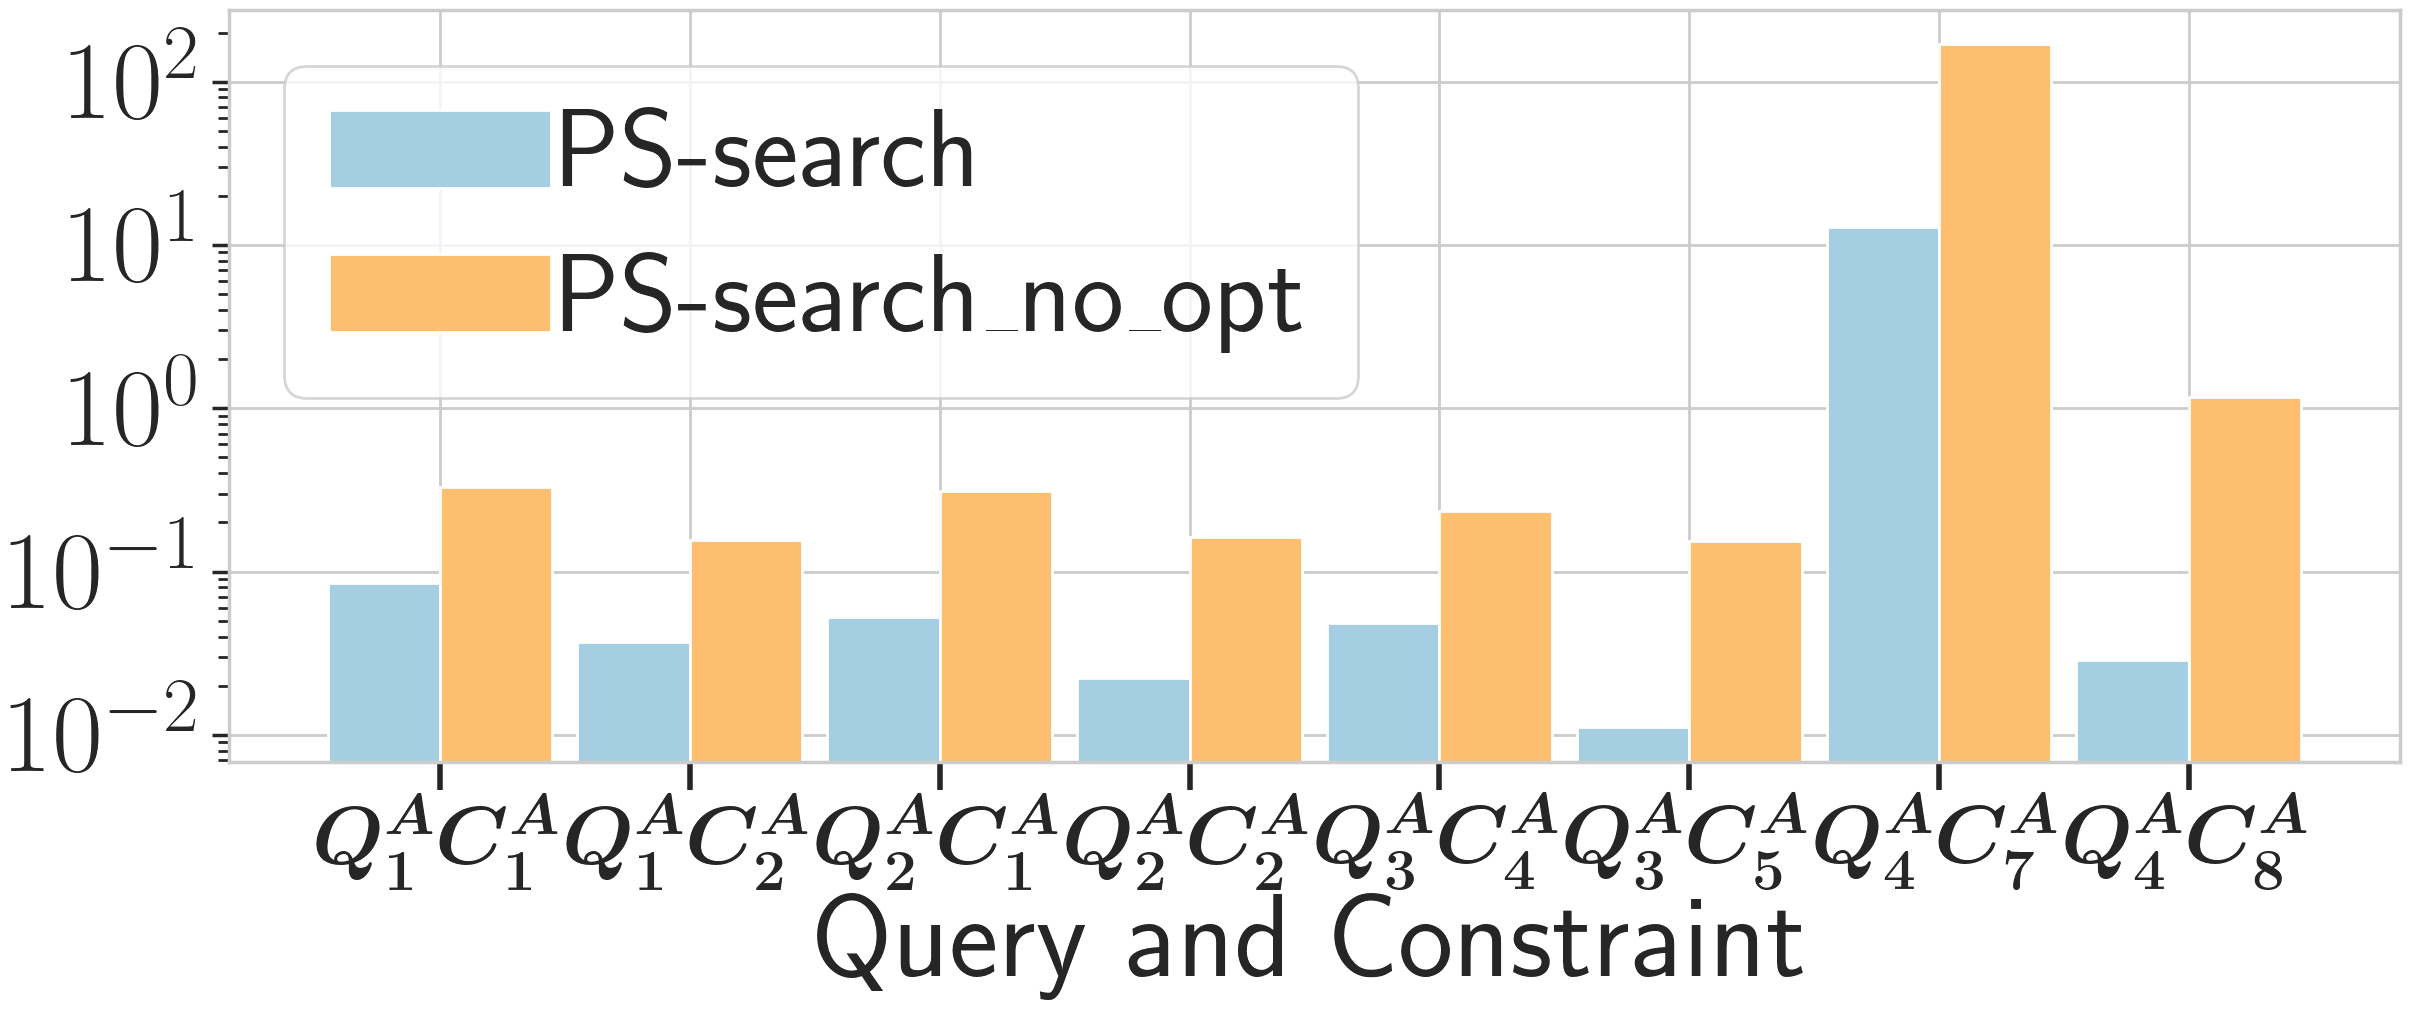
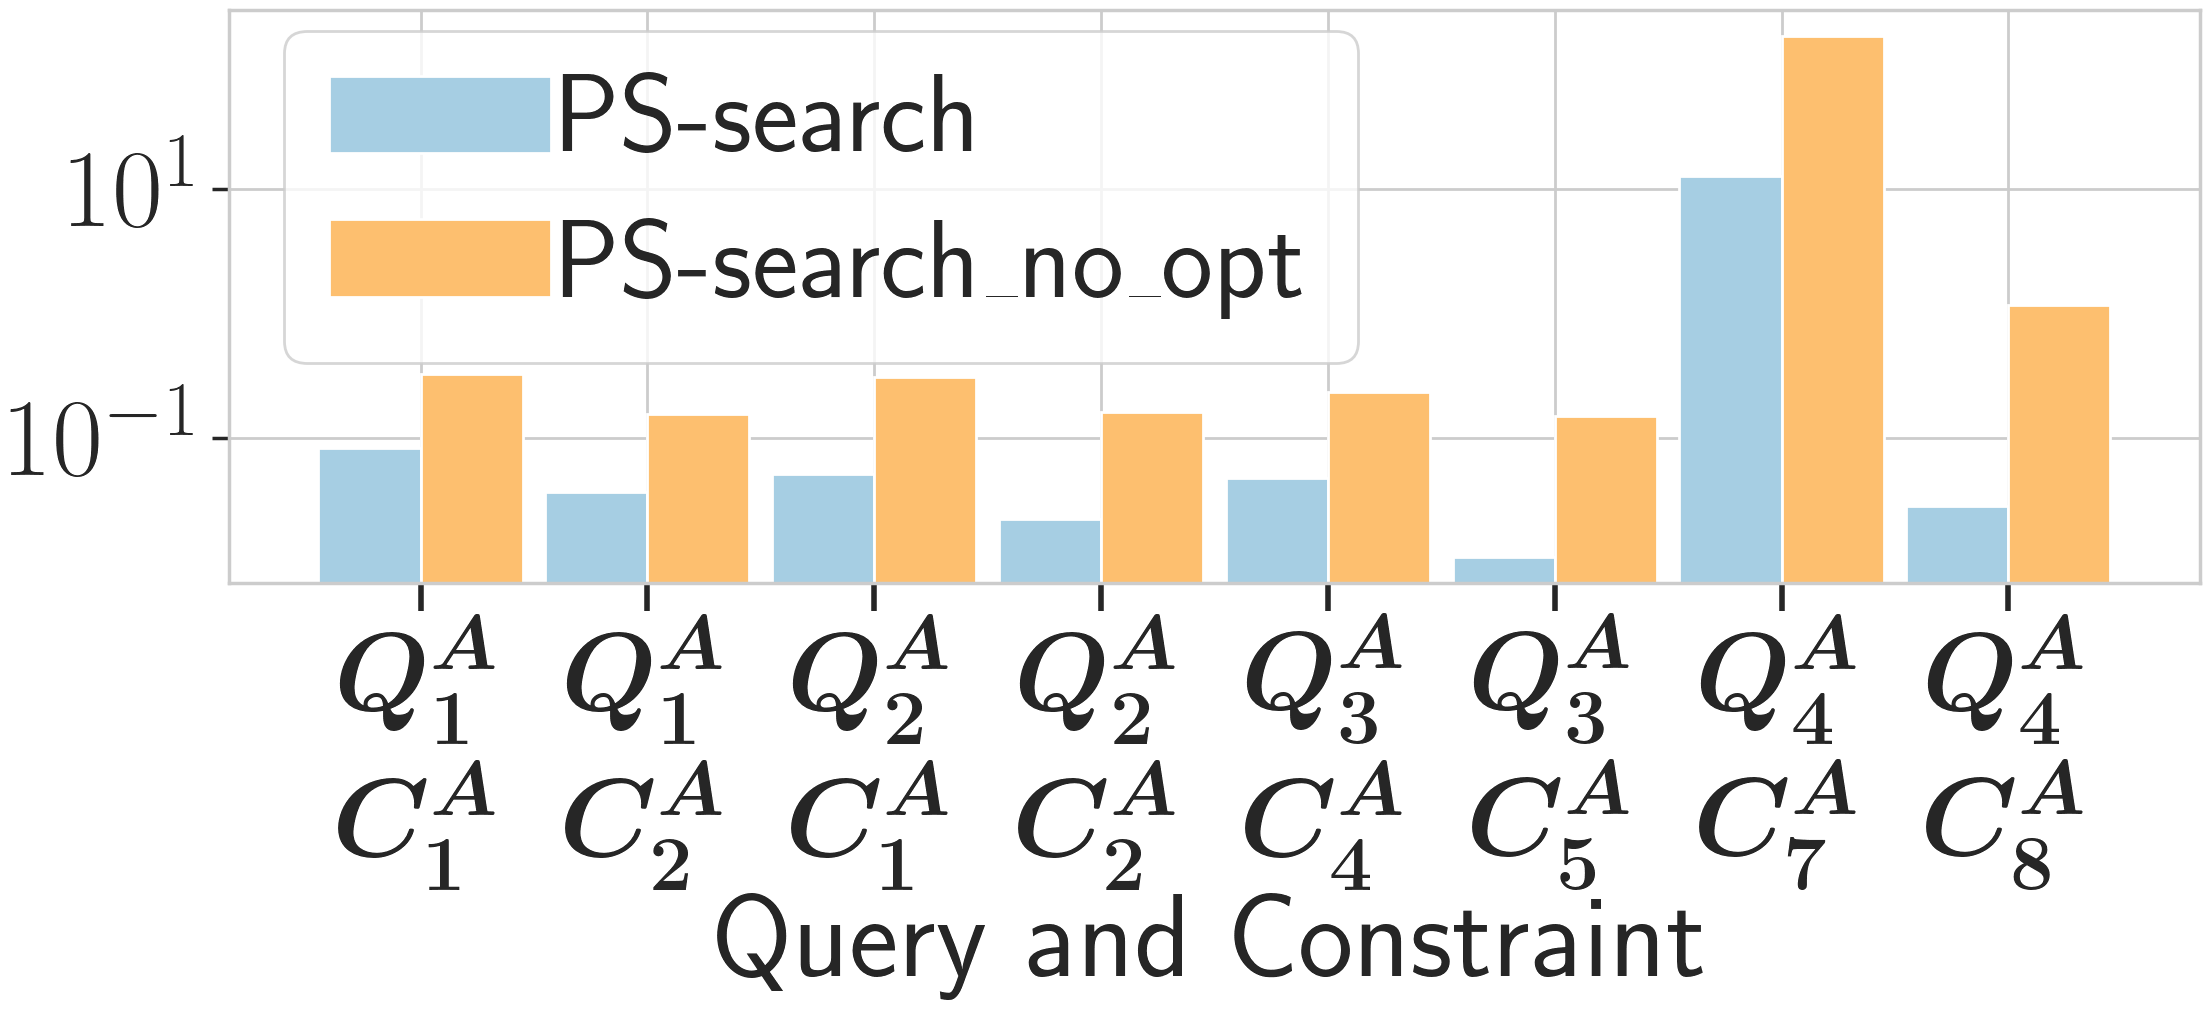
ACSIncome whole data effect opt

diff --git a/Experiment/ACSIncome/whole_data/effect_optimizatoin/fig_4q.py b/Experiment/ACSIncome/whole_data/effect_optimizatoin/fig_4q.py
@@ -19,7 +19,7 @@ plt.rc('font', size=70, weight='bold')
 color = ['C1', 'C0', 'C7', 'C6']
 label = ['PS-prov', "PS-search", "PS-prov\_no\_opt", "PS-search\_no\_opt"]
 
-f_size = (26, 12)
+f_size = (24, 12)
 
 x_list = list()
 x_naive = list()
@@ -71,20 +71,20 @@ plt.bar(index + bar_width, execution_timebl1, bar_width, color=color[3], label=l
 
 # x_list = ['\\boldmath$Q^A_1$\n\\boldmath$C^A_1$', '\\boldmath$Q^A_1$\n\\boldmath$C^A_2$',
 #           '\\boldmath$Q^A_2$\n\\boldmath$C^A_1$', '\\boldmath$Q^A_2$\n\\boldmath$C^A_2$']
-x_list = ['\\boldmath$Q^A_1$\\boldmath$C^A_1$', '\\boldmath$Q^A_1$\\boldmath$C^A_2$',
-          '\\boldmath$Q^A_2$\\boldmath$C^A_1$', '\\boldmath$Q^A_2$\\boldmath$C^A_2$',
-          '\\boldmath$Q^A_3$\\boldmath$C^A_4$', '\\boldmath$Q^A_3$\\boldmath$C^A_5$',
-          '\\boldmath$Q^A_4$\\boldmath$C^A_7$', '\\boldmath$Q^A_4$\\boldmath$C^A_8$',
+x_list = ['\\boldmath$Q^A_1$\n\\boldmath$C^A_1$', '\\boldmath$Q^A_1$\n\\boldmath$C^A_2$',
+          '\\boldmath$Q^A_2$\n\\boldmath$C^A_1$', '\\boldmath$Q^A_2$\n\\boldmath$C^A_2$',
+          '\\boldmath$Q^A_3$\n\\boldmath$C^A_4$', '\\boldmath$Q^A_3$\n\\boldmath$C^A_5$',
+          '\\boldmath$Q^A_4$\n\\boldmath$C^A_7$', '\\boldmath$Q^A_4$\n\\boldmath$C^A_8$',
           ]
 
 
-plt.xticks(np.arange(0, 8) + bar_width/2, x_list, rotation=0, fontsize=60)
+plt.xticks(np.arange(0, 8) + bar_width/2, x_list, rotation=0, fontsize=80)
 plt.yticks(fontsize=80, weight='bold')
 
 plt.xlabel('Query and Constraint', fontsize=85, weight='bold')
 
 plt.yscale('log')
-lgnd = plt.legend(loc='upper left', bbox_to_anchor=(0, 1.0), fontsize=80, ncol=1, labelspacing=0.4,
+lgnd = plt.legend(loc='upper left', bbox_to_anchor=(0, 1.06), fontsize=80, ncol=1, labelspacing=0.4,
                   handletextpad=0.1, markerscale=0.5, columnspacing=0.5)
 
 plt.tight_layout()

diff --git a/Experiment/ACSIncome/whole_data/effect_optimizatoin/fig.py b/Experiment/ACSIncome/whole_data/effect_optimizatoin/fig.py
@@ -71,17 +71,17 @@ plt.bar(index + bar_width, execution_timebl1, bar_width, color=color[3], label=l
 
 # x_list = ['\\boldmath$Q^A_1$\n\\boldmath$C^A_1$', '\\boldmath$Q^A_1$\n\\boldmath$C^A_2$',
 #           '\\boldmath$Q^A_2$\n\\boldmath$C^A_1$', '\\boldmath$Q^A_2$\n\\boldmath$C^A_2$']
-x_list = ['\\boldmath$Q^A_1$\\boldmath$C^A_1$', '\\boldmath$Q^A_1$\\boldmath$C^A_2$',
-          '\\boldmath$Q^A_2$\\boldmath$C^A_1$', '\\boldmath$Q^A_2$\\boldmath$C^A_2$']
+x_list = ['\\boldmath$Q^A_1$\n\\boldmath$C^A_1$', '\\boldmath$Q^A_1$\n\\boldmath$C^A_2$',
+          '\\boldmath$Q^A_2$\n\\boldmath$C^A_1$', '\\boldmath$Q^A_2$\n\\boldmath$C^A_2$']
 
 
-plt.xticks(np.arange(0, 4) + bar_width/2, x_list, rotation=0, fontsize=55)
+plt.xticks(np.arange(0, 4) + bar_width/2, x_list, rotation=0, fontsize=70)
 plt.yticks(fontsize=80, weight='bold')
 
-plt.xlabel('Query and Constraint', fontsize=80, weight='bold')
+plt.xlabel('Query and Constraint', fontsize=85, weight='bold')
 
 # plt.yscale('log')
-lgnd = plt.legend(loc='upper right', bbox_to_anchor=(1.04, 0.9), fontsize=55, ncol=1, labelspacing=0.4,
+lgnd = plt.legend(loc='upper right', bbox_to_anchor=(1.04, 0.93), fontsize=55, ncol=1, labelspacing=0.4,
                   handletextpad=0.1, markerscale=0.5, columnspacing=0.5)
 
 plt.tight_layout()
